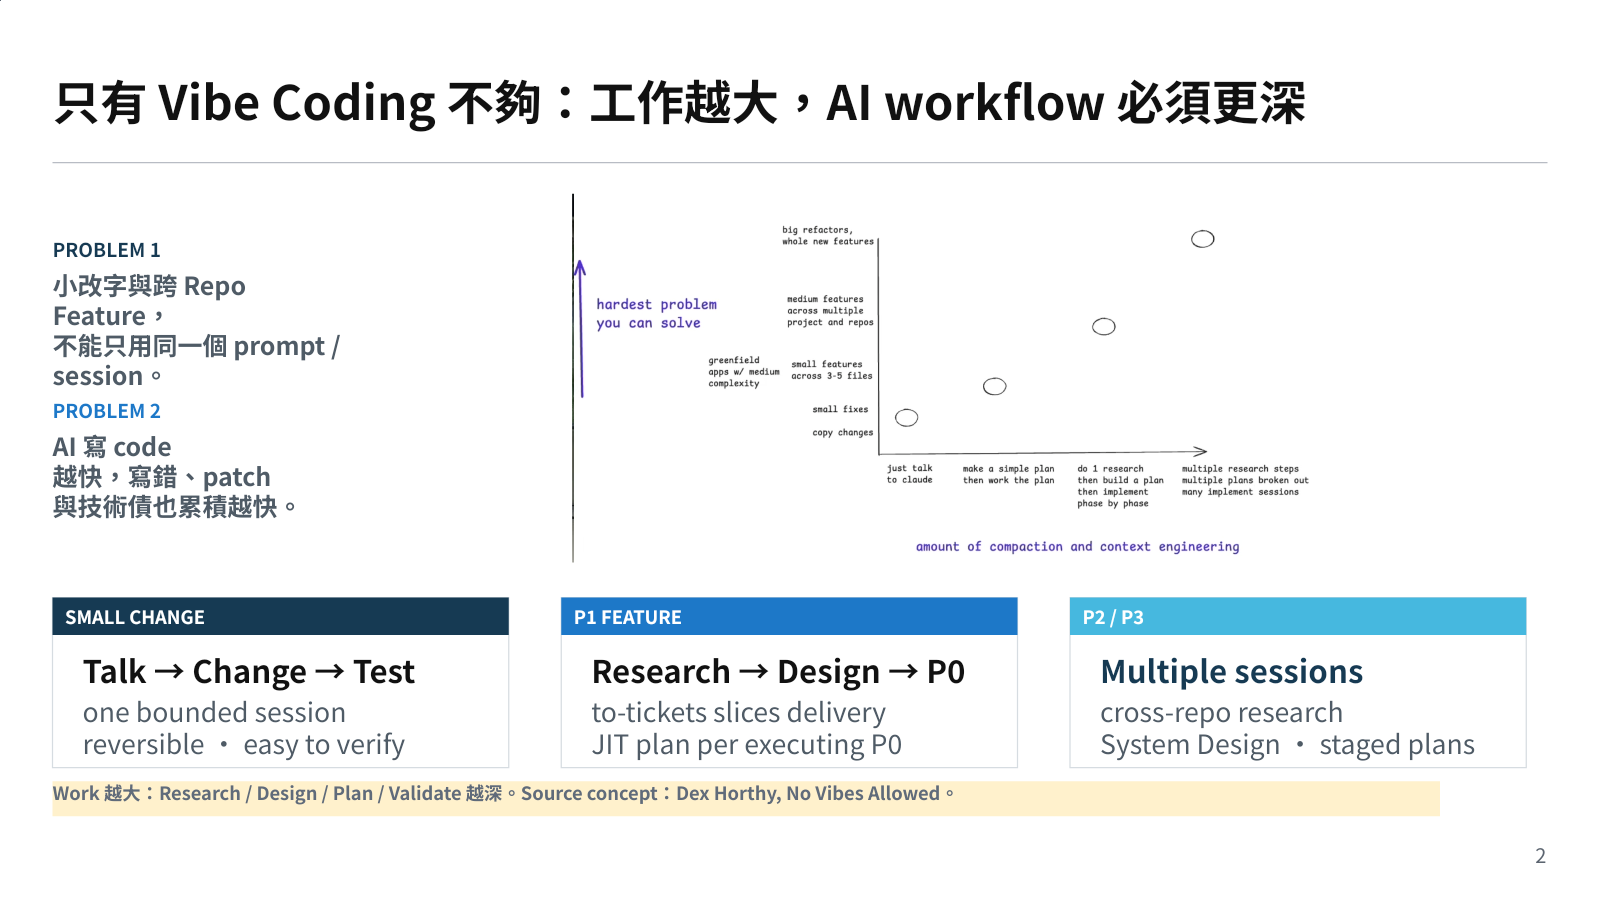
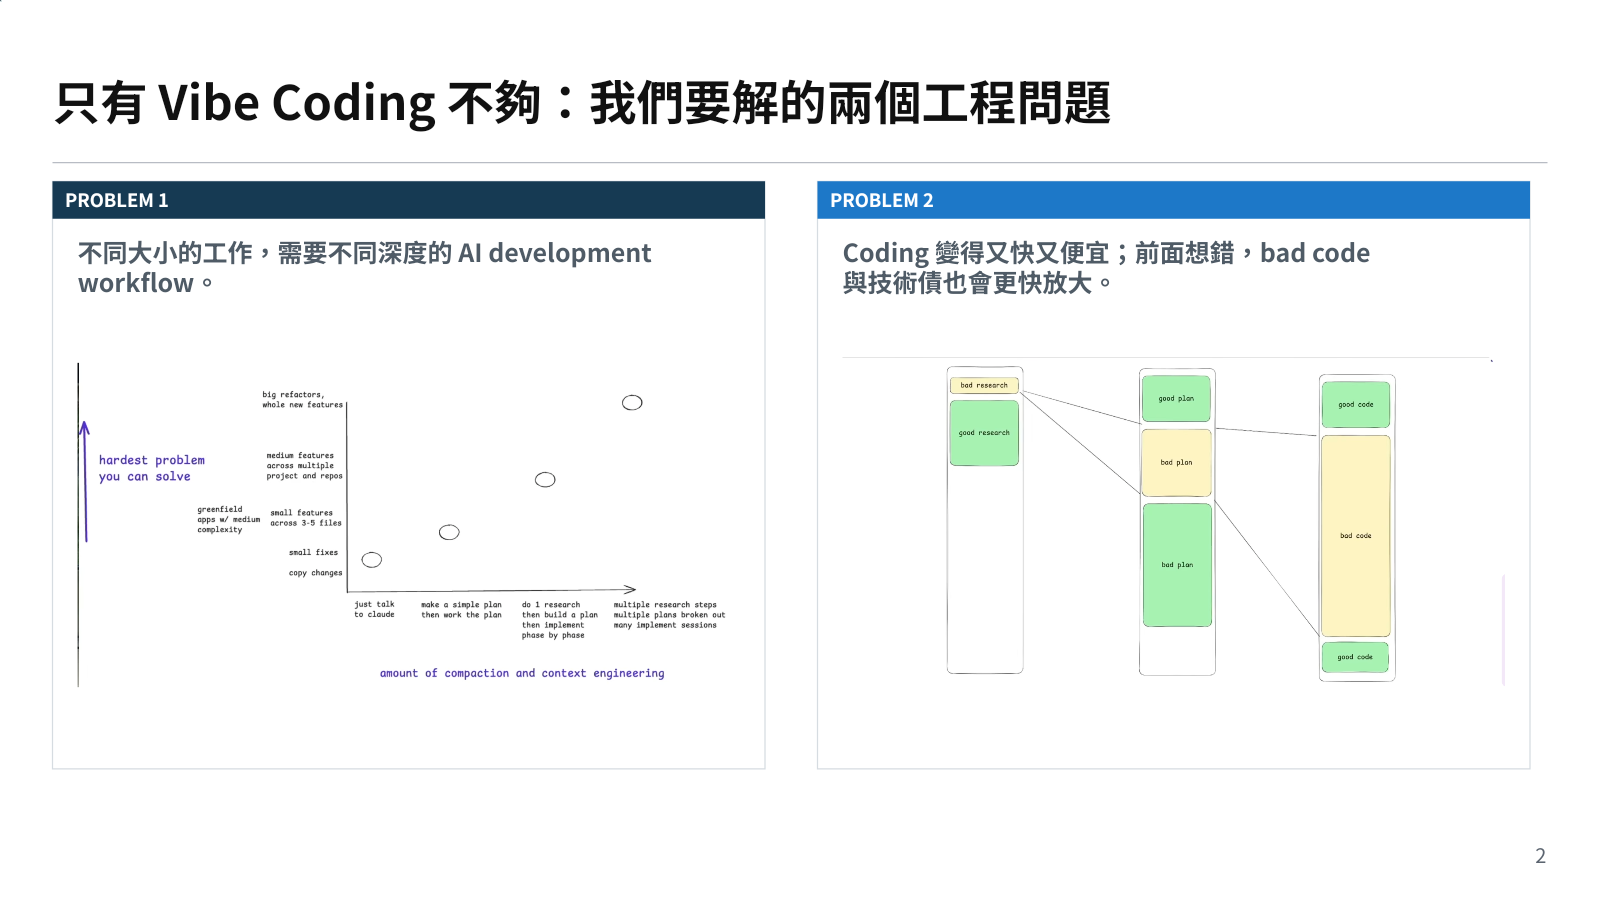
Focus training opening on two engineering problems

diff --git a/01_AI_Handoff.md b/01_AI_Handoff.md
@@ -1,6 +1,6 @@
 # AI Handoff — AI-Native Software Engineering Framework
 
-> Version: v1.18  
+> Version: v1.19  
 > Status: Active Working Handoff  
 > Purpose: Single source of working instructions for future AI sessions  
 > Governing document: `00_Project_Charter.md`  
@@ -196,12 +196,12 @@ AI-Native Engineering 是既有 SDLC／delivery operating model 的 enhancement 
 | ID | Artifact | Format | Status / Purpose |
 |---|---|---|---|
 | 00 | `00_Project_Charter.md` | Markdown | v1.5 Baseline；單一 Engineer mental model 與 adoption positioning |
-| 01 | `01_AI_Handoff.md` | Markdown | v1.18；future sessions 的工作控制文件 |
+| 01 | `01_AI_Handoff.md` | Markdown | v1.19；future sessions 的工作控制文件 |
 | 02 | `02_Framework.md` | Markdown，25–30 頁等級 | v1.6 Baseline；Golden model、responsibility coverage、integration 與治理 SSOT |
 | 03 | `03_Golden_Engineering_Playbook.md` | Markdown | v1.4 Baseline；Golden Flow + Six Questions + Golden default skills |
 | 04 | `diagrams/04_Framework_Overview.md` | Diagram / Markdown | v1.4 Candidate；單一 Engineer mental model overview，待 Sponsor review |
 | 05 | `diagrams/05_Decision_Tree.md` | Diagram / Markdown | v1.5 Candidate；Six Questions 導向 capability、Golden default、placement 與 gate |
-| 06 | `presentation/06_Training_Presentation.pptx` | PowerPoint，9 頁 | v1.9 Baseline Candidate；以兩個 vibe-coding 問題開場，建立 durable Golden Flow，再以 P1 Feature 示範並呈現 8 週 → 6 週 target outcome |
+| 06 | `presentation/06_Training_Presentation.pptx` | PowerPoint，9 頁 | v1.10 Baseline Candidate；P2 以兩張直接圖像只講兩個工程問題，建立 durable Golden Flow，再以 P1 Feature 示範並呈現 8 週 → 6 週 target outcome |
 | 07 | `07_Quick_Reference_Guide.*` | One Pager | Pending supplement；日常快速使用 |
 
 Case Library 是既有十個以上 pilots 的持續演進 evidence collection；Team-specific templates 由 Team 管理。其他 bonus items 必須有真實 adoption need，避免文件/checklist 無限制增加。
@@ -218,7 +218,7 @@ Case Library 是既有十個以上 pilots 的持續演進 evidence collection；
 - `02_Framework.md` v1.6 Baseline 已將七段內容降為 non-prescriptive responsibility coverage；`Understand → Challenge → Execute → Evidence` 改為每個 Golden Stage 的 AI 基本功。
 - `03_Golden_Engineering_Playbook.md` v1.4 Baseline 已保留 Six Questions 完整定位能力，並加入 `required discipline + Golden default + approved equivalent` skill adoption policy。
 - `diagrams/04_Framework_Overview.md` v1.4 Candidate 與 `diagrams/05_Decision_Tree.md` v1.5 Candidate 只呈現 Golden mental model、Six Questions 與 Golden default routing。
-- `presentation/06_Training_Presentation.pptx` v1.9 Baseline Candidate 共 9 頁；P2 具體說明 work size 需要不同 workflow depth，以及低 coding cost 會加速 bad-code／patch debt；P3 說明本次建立的是可持久、可跨 P3–P0 使用並結合 10+ pilots Golden defaults 的 AI Development Workflow。P8 將 8 週 → 6 週 target allocation 定為 Research 0.75、Design 1.5、Plan 0.25、Implement 1.5、Validate 2.0 週。
+- `presentation/06_Training_Presentation.pptx` v1.10 Baseline Candidate 共 9 頁；P2 只保留兩個工程問題與兩張使用者提供的圖：不同大小的工作需要不同 workflow depth，以及低 coding cost 會放大前段錯誤、bad code 與技術債；已移除該頁 Small／P1／P2-P3 taxonomy。P3 說明本次建立的是可持久、可跨 P3–P0 使用並結合 10+ pilots Golden defaults 的 AI Development Workflow。P8 將 8 週 → 6 週 target allocation 定為 Research 0.75、Design 1.5、Plan 0.25、Implement 1.5、Validate 2.0 週。
 
 ### Framework 已涵蓋
 
@@ -244,7 +244,7 @@ Case Library 是既有十個以上 pilots 的持續演進 evidence collection；
 
 1. Consolidate 既有十個以上 pilot cases，依 Work Level、Archetype、Golden Stage、AI 基本功的實際運用、Golden default/equivalent skill、Risk Tier、Execution Mode、artifacts/evidence、outcome、failure learning mapping；選 3–5 canonical cases，其餘進 Case Library。
 2. 請每個 Team 建立輕量 local workflow adapter：existing activities／systems of record → Golden questions／Gates → artifact placement／decision owner；Team 自主管理 templates，不由 Department 集中設計。
-3. Sponsor/Engineering 確認 `04` v1.4、`05` v1.5 與 `06` v1.9 的 concrete problem opening、durable workflow purpose、single-mental-model narrative、Six Questions routing、P1 Feature Golden Path、Golden skill defaults、8 週 → 6 週 target assumptions 與 usability。
+3. Sponsor/Engineering 確認 `04` v1.4、`05` v1.5 與 `06` v1.10 的 two-image problem opening、durable workflow purpose、single-mental-model narrative、Six Questions routing、P1 Feature Golden Path、Golden skill defaults、8 週 → 6 週 target assumptions 與 usability。
 4. 核准後產生 `07_Quick_Reference_Guide` one pager；只呈現 Golden Flow + Six Questions + triggered controls，不引入七段 formal lifecycle。
 
 ---
@@ -523,6 +523,12 @@ Case Library 是既有十個以上 pilots 的持續演進 evidence collection；
 72. P8 的 8 週 → 6 週 illustrative target allocation 定為 Research `0.75 → 0.75`、Design `0.5 → 1.5`、Plan `0.25 → 0.25`、Implement `5.5 → 1.5`、Validate `1.0 → 2.0` 週；Design 與 Implement 各 1.5 週，Implementation 約下降 73%，並以更完整 FR／NFR／failure modes 與 TDD／staging／readiness 降低 patch/rework。
 73. Training deck v1.9 維持 9 頁；P2 使用使用者提供、源自 Dex Horthy《No Vibes Allowed》的 problem-size/context-engineering 圖示概念，P8 保持 raster chart。完成全頁 CJK render、逐頁 full-size inspection、overflow、template fidelity、page marker、slide count 與 empty-placeholder QA。
 
+`01` v1.19 與 `06` v1.10 完成 problem-only opening simplification：
+
+74. P2 改為左右兩個大型問題區塊，直接使用 problem-size/context-engineering 與 bad-research/bad-plan amplification 兩張圖；不再在此頁先教 solution taxonomy。
+75. P2 移除 Small Change／P1 Feature／P2-P3 底部分類與方法 footer，只保留兩句工程師可直接理解的問題：不同大小的工作需要不同 workflow depth；coding 變快變便宜會更快放大前段錯誤、bad code 與技術債。
+76. Training deck v1.10 維持 9 頁；P1 僅更新版本標記、P2 完成上述重構，其餘 approved narrative 不變。完成全頁 CJK render、逐頁 full-size inspection、overflow、template fidelity、page marker、slide count 與 empty-placeholder QA。
+
 後續若變更核心模型，仍應使用相同 review format：Executive Verdict、Score、Must-Fix、Should-Fix、Remove/Merge、Missing Decisions、Minimal Patch Plan。
 
 ---
@@ -625,7 +631,7 @@ Case Library 是既有十個以上 pilots 的持續演進 evidence collection；
 3. P0 lightweight/JIT planning boundary，以及 P1/P0 OpenSpec Change scope rule 是否足夠直覺。
 4. 各 Team 的 local activity／system-of-record mapping 與 Team-owned templates 是否能滿足 Department minimum contract，而不增加 duplicate artifacts。
 5. 既有十個以上 pilot case inventory 的 evidence source、owner 與可公開於 Training 的 3–5 canonical cases。
-6. Sponsor/Engineering 確認 04 v1.4、05 v1.5 與 06 v1.9 的 problem clarity、workflow purpose、single-model clarity、P1 Feature Golden Path、Golden default adoption path、density、routing correctness，以及 Design／Implement 各 1.5 週的 8 週 → 6 週 illustration 與 usability 後轉 Baseline。
+6. Sponsor/Engineering 確認 04 v1.4、05 v1.5 與 06 v1.10 的 problem clarity、workflow purpose、single-model clarity、P1 Feature Golden Path、Golden default adoption path、density、routing correctness，以及 Design／Implement 各 1.5 週的 8 週 → 6 週 illustration 與 usability 後轉 Baseline。
 
 ---
 
@@ -633,7 +639,7 @@ Case Library 是既有十個以上 pilots 的持續演進 evidence collection；
 
 下一個 working session 應執行：
 
-> **Read `00_Project_Charter.md` v1.5, `01_AI_Handoff.md` v1.18, `02_Framework.md` v1.6 Baseline, `03_Golden_Engineering_Playbook.md` v1.4 Baseline, `diagrams/04_Framework_Overview.md` v1.4 Candidate, `diagrams/05_Decision_Tree.md` v1.5 Candidate, and `presentation/06_Training_Presentation.pptx` v1.9 Baseline Candidate. Validate that P2 makes the two vibe-coding problems concrete, P3 makes the durable AI Development Workflow purpose clear, Golden Flow + Six Golden Questions remains the single Engineer mental model, and new users can follow the P1 Feature Golden Path and Golden default skill path without prior skill knowledge. Validate the 8→6 week target against pilot actuals instead of treating the illustrative allocation as an industry benchmark. Consolidate the existing 10+ pilots and select 3–5 canonical cases; define Team-owned local workflow adapters without centralizing templates. After Sponsor/Engineering confirms 04–06, create `07_Quick_Reference_Guide` with Six Questions as its top router. Do not create a parallel SDLC, another formal lifecycle, or another generic checklist.**
+> **Read `00_Project_Charter.md` v1.5, `01_AI_Handoff.md` v1.19, `02_Framework.md` v1.6 Baseline, `03_Golden_Engineering_Playbook.md` v1.4 Baseline, `diagrams/04_Framework_Overview.md` v1.4 Candidate, `diagrams/05_Decision_Tree.md` v1.5 Candidate, and `presentation/06_Training_Presentation.pptx` v1.10 Baseline Candidate. Validate that P2 makes the two vibe-coding problems concrete without prematurely teaching work-level taxonomy, P3 makes the durable AI Development Workflow purpose clear, Golden Flow + Six Golden Questions remains the single Engineer mental model, and new users can follow the P1 Feature Golden Path and Golden default skill path without prior skill knowledge. Validate the 8→6 week target against pilot actuals instead of treating the illustrative allocation as an industry benchmark. Consolidate the existing 10+ pilots and select 3–5 canonical cases; define Team-owned local workflow adapters without centralizing templates. After Sponsor/Engineering confirms 04–06, create `07_Quick_Reference_Guide` with Six Questions as its top router. Do not create a parallel SDLC, another formal lifecycle, or another generic checklist.**
 
 ---
 
@@ -663,7 +669,7 @@ Case Library 是既有十個以上 pilots 的持續演進 evidence collection；
 - [ ] E3 沿用既有 authorized owner、Change Management 與 production control；AI 不得成為 production approver。
 - [ ] 已有十個以上 pilots 是 evidence base；下一步是 consolidation/canonical cases，不是重新要求 pilot。
 - [ ] 03 v1.4 已是 Baseline；04 v1.4 與 05 v1.5 Candidate 已同步 single-model／Golden-default correction。
-- [ ] 06 v1.9 Baseline Candidate 已是實際 9 頁 PowerPoint；P2 以兩個具體 vibe-coding 問題開場，P3 定義 durable AI Development Workflow，後續以 Golden Flow + Six Questions 啟動並用單一 P1 Feature Golden Path 強化 Golden defaults；target outcome 為 Design／Implement 各 1.5 週、總時間 8 週 → 6 週的 illustration，並完成 CJK render、逐頁 full-size inspection、overflow、template fidelity、page marker 與 empty-placeholder QA。
+- [ ] 06 v1.10 Baseline Candidate 已是實際 9 頁 PowerPoint；P2 以兩張圖只講兩個具體 vibe-coding 工程問題且不先放 work-level taxonomy，P3 定義 durable AI Development Workflow，後續以 Golden Flow + Six Questions 啟動並用單一 P1 Feature Golden Path 強化 Golden defaults；target outcome 為 Design／Implement 各 1.5 週、總時間 8 週 → 6 週的 illustration，並完成 CJK render、逐頁 full-size inspection、overflow、template fidelity、page marker 與 empty-placeholder QA。
 - [ ] 下一步是 pilot consolidation、Team adapter 與 Sponsor/Engineering confirmation；其後建立 `07_Quick_Reference_Guide` one pager。
 
 ---